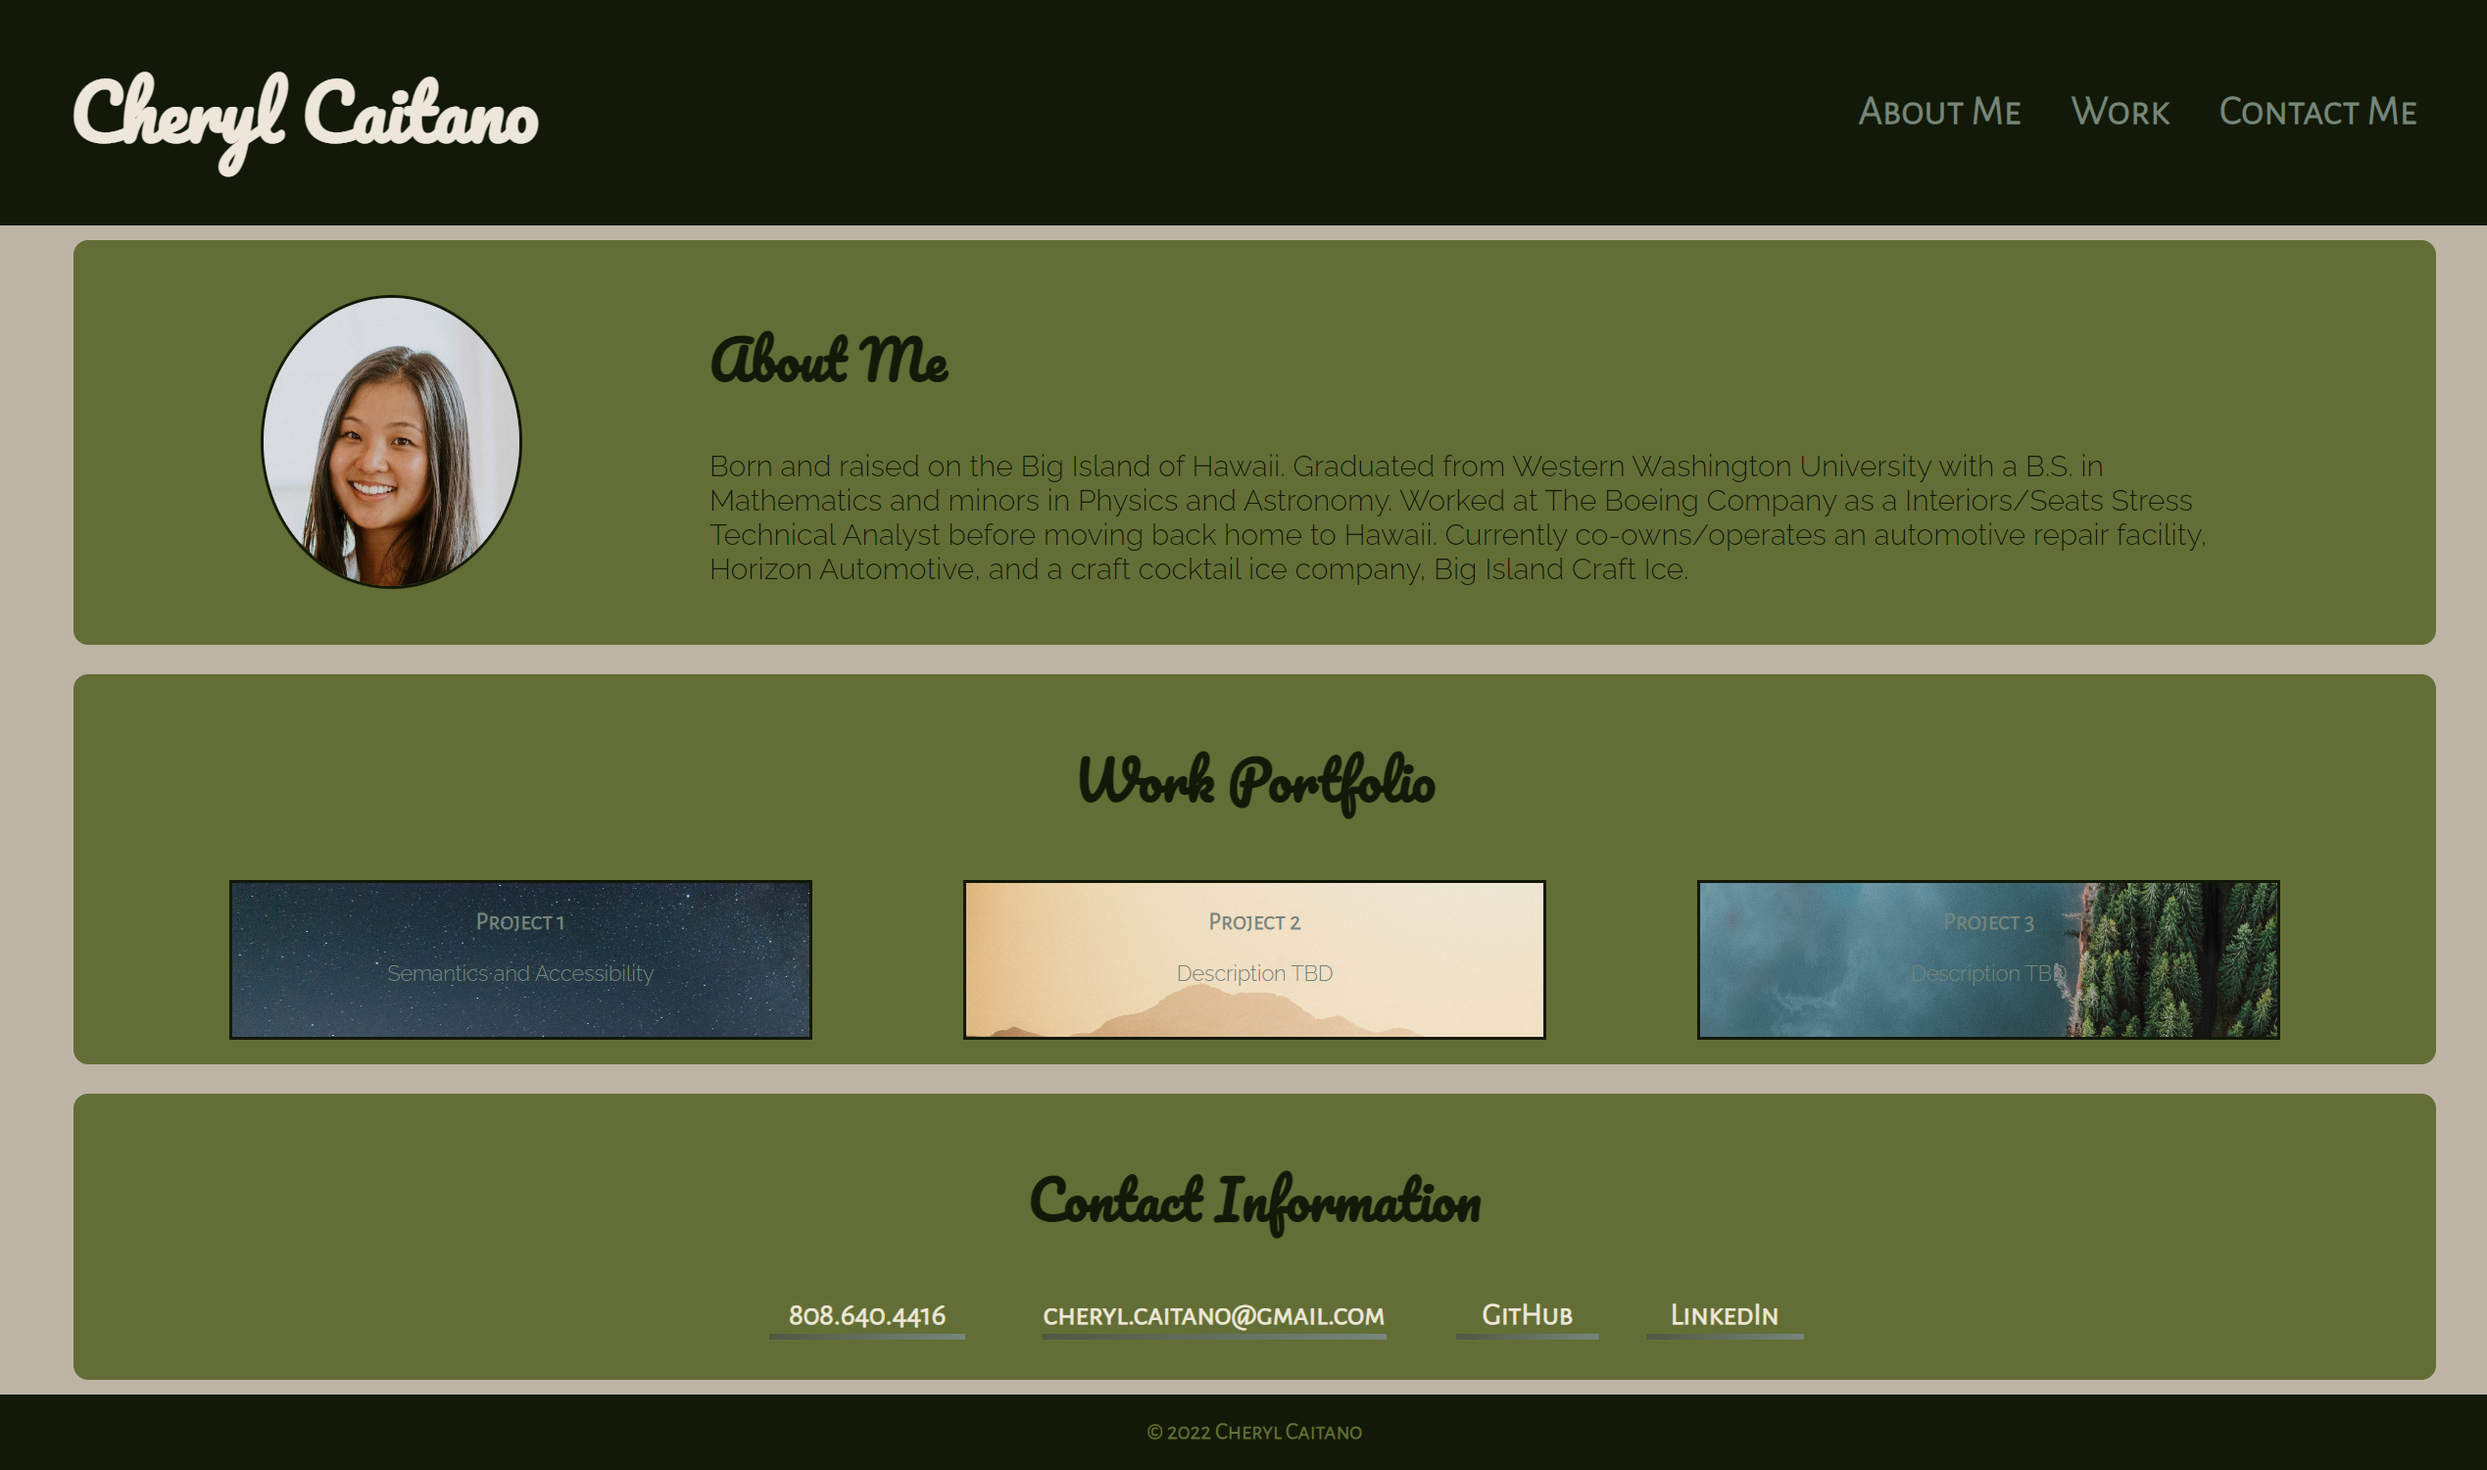
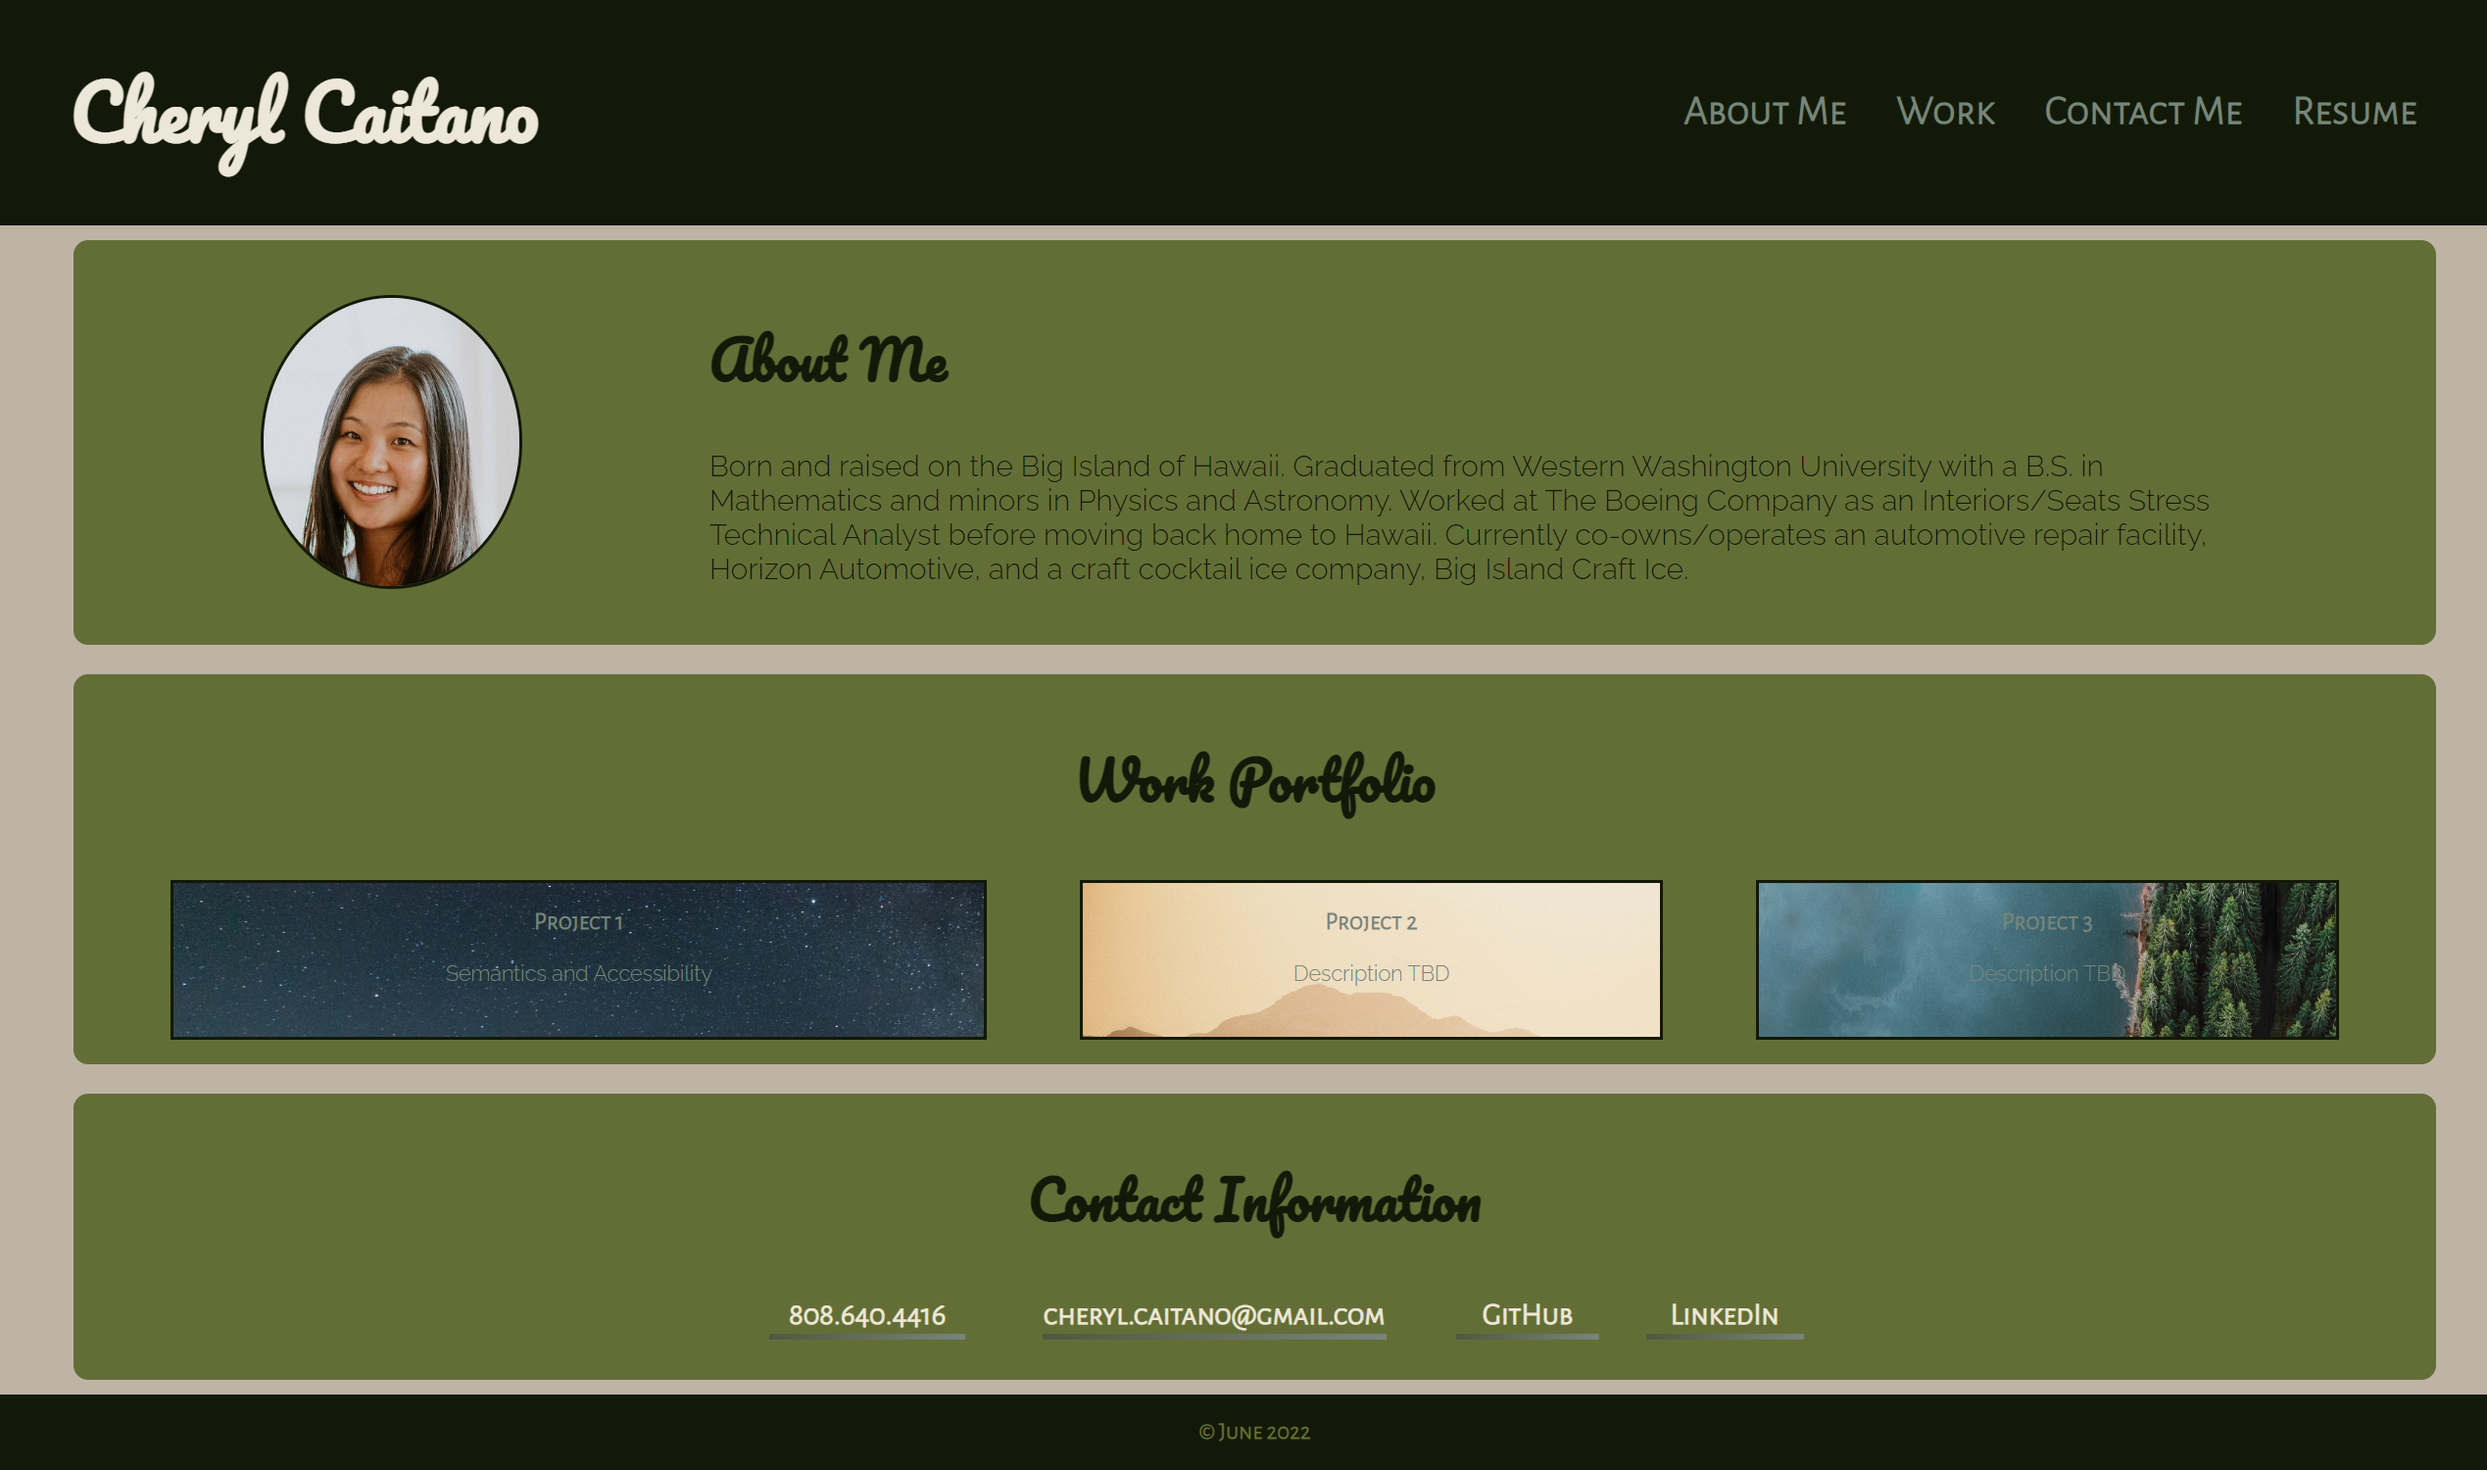
Updated screenshot in README file

diff --git a/index.html b/index.html
@@ -18,7 +18,7 @@
     <a href="#aboutme">About Me</a>
     <a href="#workportfolio">Work</a>
     <a href="#contactinfo">Contact Me</a>
-    <a href="./assets/documents/resume-2022.pdf">Resume</a>
+    <a href="./assets/documents/resume-2022.pdf" target="_blank">Resume</a>
   </nav>
 </header>
 
